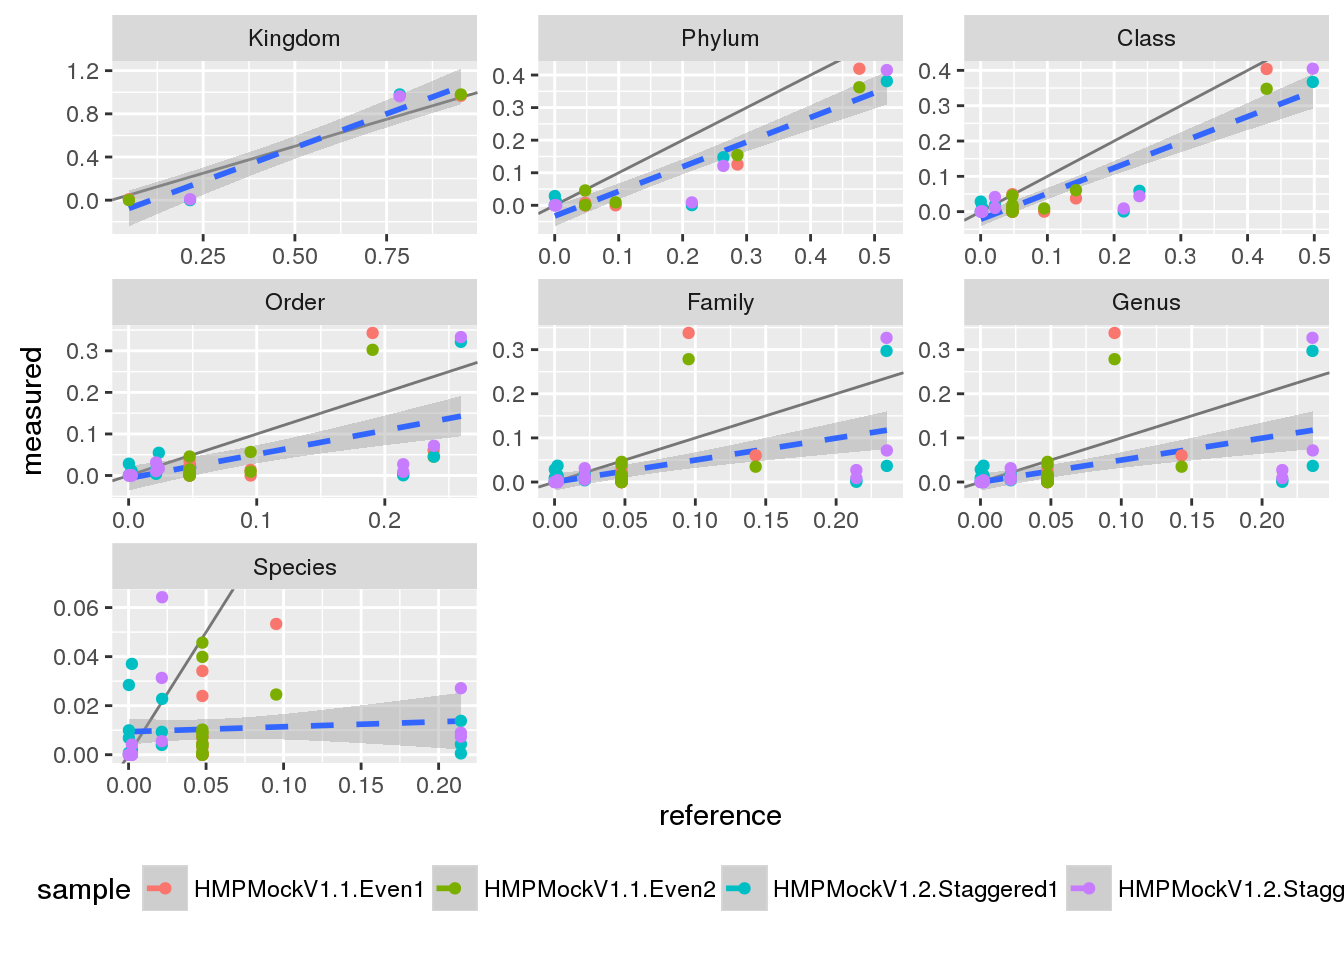
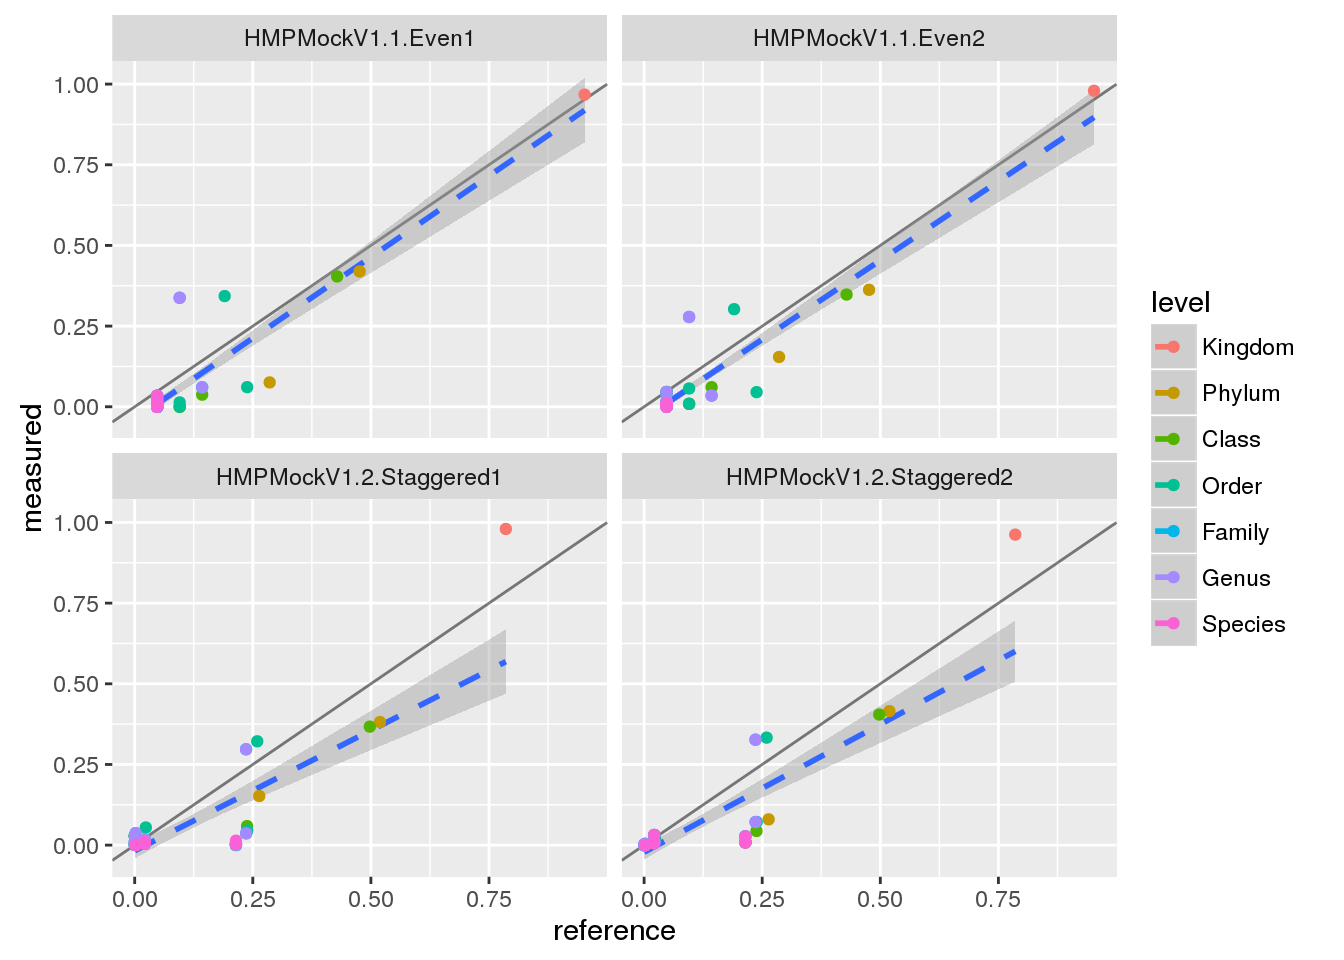
Better taxa metrics.

diff --git a/docs/about.html b/docs/about.html
@@ -246,36 +246,40 @@ $(document).ready(function () {
 ## [8] methods   base     
 ## 
 ## other attached packages:
-##  [1] ShortRead_1.30.0           GenomicAlignments_1.8.4   
-##  [3] SummarizedExperiment_1.2.3 Biobase_2.32.0            
-##  [5] Rsamtools_1.24.0           GenomicRanges_1.24.3      
-##  [7] GenomeInfoDb_1.8.7         BiocParallel_1.6.6        
-##  [9] phyloseq_1.16.2            phangorn_2.0.4            
-## [11] ape_3.5                    msa_1.4.5                 
-## [13] Biostrings_2.40.2          XVector_0.12.1            
-## [15] IRanges_2.6.1              S4Vectors_0.10.3          
-## [17] BiocGenerics_0.18.0        ggplot2_2.1.0             
-## [19] mbtools_0.5.1              dada2_1.1.6               
-## [21] Rcpp_0.12.7               
+##  [1] mbtools_0.5.1              dada2_1.1.7               
+##  [3] ShortRead_1.30.0           GenomicAlignments_1.8.4   
+##  [5] SummarizedExperiment_1.2.3 Biobase_2.32.0            
+##  [7] Rsamtools_1.24.0           GenomicRanges_1.24.3      
+##  [9] GenomeInfoDb_1.8.7         BiocParallel_1.6.6        
+## [11] phyloseq_1.16.2            phangorn_2.0.4            
+## [13] ape_3.5                    msa_1.4.5                 
+## [15] Biostrings_2.40.2          XVector_0.12.1            
+## [17] IRanges_2.6.1              S4Vectors_0.10.3          
+## [19] BiocGenerics_0.18.0        ggplot2_2.1.0             
+## [21] Rcpp_0.12.7                testthat_1.0.2            
 ## 
 ## loaded via a namespace (and not attached):
-##  [1] reshape2_1.4.1      splines_3.3.1       lattice_0.20-33    
-##  [4] rhdf5_2.16.0        colorspace_1.2-6    htmltools_0.3.5    
-##  [7] mgcv_1.8-12         yaml_2.1.13         chron_2.3-47       
-## [10] survival_2.39-4     R.oo_1.20.0         R.utils_2.4.0      
-## [13] RColorBrewer_1.1-2  foreach_1.4.3       plyr_1.8.4         
-## [16] stringr_1.1.0       zlibbioc_1.18.0     munsell_0.4.3      
-## [19] gtable_0.2.0        R.methodsS3_1.7.1   hwriter_1.3.2      
-## [22] codetools_0.2-14    evaluate_0.9        labeling_0.3       
-## [25] latticeExtra_0.6-28 knitr_1.14          permute_0.9-4      
-## [28] biomformat_1.0.2    scales_0.4.0        vegan_2.4-1        
-## [31] RcppParallel_4.3.20 jsonlite_1.1        fastmatch_1.0-4    
-## [34] digest_0.6.10       stringi_1.1.2       grid_3.3.1         
-## [37] ade4_1.7-4          quadprog_1.5-5      tools_3.3.1        
-## [40] bitops_1.0-6        magrittr_1.5        cluster_2.0.4      
-## [43] MASS_7.3-45         Matrix_1.2-6        data.table_1.9.6   
-## [46] nnls_1.4            rmarkdown_1.0       iterators_1.0.8    
-## [49] multtest_2.28.0     igraph_1.0.1        nlme_3.1-128</code></pre>
+##  [1] httr_1.2.1           jsonlite_1.1         splines_3.3.1       
+##  [4] foreach_1.4.3        R.utils_2.4.0        RcppParallel_4.3.20 
+##  [7] latticeExtra_0.6-28  yaml_2.1.13          lattice_0.20-33     
+## [10] quadprog_1.5-5       chron_2.3-47         digest_0.6.10       
+## [13] RColorBrewer_1.1-2   colorspace_1.2-6     htmltools_0.3.5     
+## [16] Matrix_1.2-6         R.oo_1.20.0          plyr_1.8.4          
+## [19] devtools_1.12.0      zlibbioc_1.18.0      scales_0.4.0        
+## [22] git2r_0.15.0         mgcv_1.8-12          withr_1.0.2         
+## [25] survival_2.39-4      magrittr_1.5         crayon_1.3.2        
+## [28] evaluate_0.9         memoise_1.0.0        R.methodsS3_1.7.1   
+## [31] nlme_3.1-128         MASS_7.3-45          hwriter_1.3.2       
+## [34] vegan_2.4-1          BiocInstaller_1.22.3 tools_3.3.1         
+## [37] data.table_1.9.6     stringr_1.1.0        munsell_0.4.3       
+## [40] cluster_2.0.4        ade4_1.7-4           rhdf5_2.16.0        
+## [43] grid_3.3.1           iterators_1.0.8      biomformat_1.0.2    
+## [46] igraph_1.0.1         labeling_0.3         rmarkdown_1.0       
+## [49] bitops_1.0-6         gtable_0.2.0         codetools_0.2-14    
+## [52] multtest_2.28.0      roxygen2_5.0.1       curl_2.1            
+## [55] reshape2_1.4.1       R6_2.2.0             nnls_1.4            
+## [58] knitr_1.14           fastmatch_1.0-4      permute_0.9-4       
+## [61] stringi_1.1.2</code></pre>
 </div>
 
 

diff --git a/docs/mock_example.html b/docs/mock_example.html
@@ -508,19 +508,21 @@ head(unname(taxa))</code></pre>
 ## [4,] &quot;s__&quot;           
 ## [5,] &quot;s__&quot;           
 ## [6,] &quot;s__sphaeroides&quot;</code></pre>
-<p>This can be combined with quantifications using the phyloseq package.</p>
+<p>Since we used the green genes database there are some assignments which are actually empty such as the “s__&quot; species. We will convert them to their correct NA value.</p>
+<pre class="r"><code>taxa[grep(&quot;__$&quot;, taxa)] &lt;- NA</code></pre>
+<p>The taxa assignments can be combined with quantifications using the phyloseq package.</p>
 <pre class="r"><code>ps &lt;- phyloseq(otu_table(seqtab_nochim, taxa_are_rows=FALSE),
                tax_table(taxa))</code></pre>
 <p>We can now compare this table to our reference table from mockrobiota. We will start by quantifying how many of the real taxa were found in our taxonomy assignment.</p>
 <pre class="r"><code>taxa_metrics(tax_table(ps), tax_table(mock$ps_gg))</code></pre>
-<pre><code>##     level found  n
-## 1 Kingdom   1.0  2
-## 2  Phylum   1.0  6
-## 3   Class   1.0 10
-## 4   Order   1.0 12
-## 5  Family   1.0 18
-## 6   Genus   1.0 18
-## 7 Species   0.7 20</code></pre>
+<pre><code>##     level precision recall        F1 n_exp n_ref
+## 1 Kingdom 1.0000000    1.0 1.0000000     2     2
+## 2  Phylum 1.0000000    1.0 1.0000000     6     6
+## 3   Class 1.0000000    1.0 1.0000000    10    10
+## 4   Order 1.0000000    1.0 1.0000000    12    12
+## 5  Family 1.0000000    1.0 1.0000000    18    18
+## 6   Genus 1.0000000    1.0 1.0000000    18    18
+## 7 Species 0.6666667    0.3 0.4137931     9    20</code></pre>
 <p>As we can see we are pretty good in identifying the taxa in our samples. However, how do we perform in terms of taxa quantities? We will start by stratifying across the samples:</p>
 <pre class="r"><code>tq &lt;- taxa_quants(ps, mock$ps_gg, normalize = TRUE)
 head(tq)</code></pre>
@@ -537,7 +539,7 @@ head(tq)</code></pre>
     geom_smooth(aes(group=1), method=&quot;lm&quot;, lty=&quot;dashed&quot;) +
     geom_point() +
     facet_wrap(~ sample)</code></pre>
-<p><img src="mock_example_files/figure-html/unnamed-chunk-17-1.png" width="672" /></p>
+<p><img src="mock_example_files/figure-html/unnamed-chunk-18-1.png" width="672" /></p>
 <p>This plot is so common that it is also implemented in <code>mbtools</code> as <code>mock_plot</code>.</p>
 <p>Additionally, we can also combine all samples and rather stratify by taxonomy level.</p>
 <pre class="r"><code>ggplot(tq, aes(x=reference, y=measured, col=sample)) +
@@ -546,20 +548,20 @@ head(tq)</code></pre>
     geom_point() +
     theme(legend.position=&quot;bottom&quot;) +
     facet_wrap(~ level, scale=&quot;free&quot;)</code></pre>
-<p><img src="mock_example_files/figure-html/unnamed-chunk-18-1.png" width="672" /></p>
+<p><img src="mock_example_files/figure-html/unnamed-chunk-19-1.png" width="672" /></p>
 <p>This looks pretty ok with larger variations on the species level, which is to be expected. We can quantify the performance by a correlation test.</p>
 <pre class="r"><code>cor.test(tq$measured, tq$reference)</code></pre>
 <pre><code>## 
 ##  Pearson&#39;s product-moment correlation
 ## 
 ## data:  tq$measured and tq$reference
-## t = 28.522, df = 318, p-value &lt; 2.2e-16
+## t = 27.518, df = 286, p-value &lt; 2.2e-16
 ## alternative hypothesis: true correlation is not equal to 0
 ## 95 percent confidence interval:
-##  0.8139378 0.8761033
+##  0.8168206 0.8808135
 ## sample estimates:
 ##       cor 
-## 0.8479102</code></pre>
+## 0.8519678</code></pre>
 <p>So we get a correlation of about 0.85 which is okay for the bad quality reads we used here.</p>
 </div>
 
